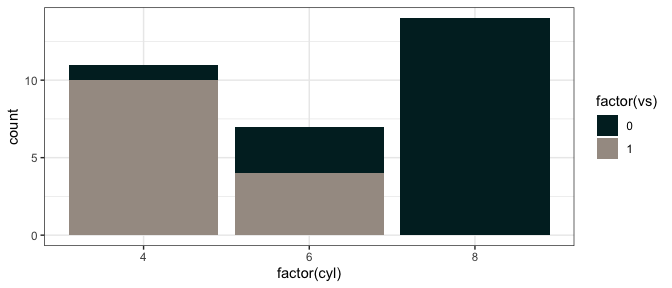
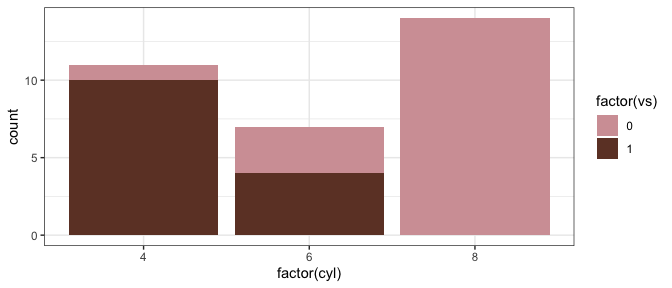
readme

diff --git a/README.md b/README.md
@@ -64,14 +64,6 @@ qg_palette("moscow")
 
 ![](figure/royal-1.png)
 
-``` r
-library("ggplot2")
-ggplot(mtcars, aes(factor(cyl), fill=factor(vs))) +  geom_bar() +
-  scale_fill_manual(values = qg_palette("moscow")[2:3]) + theme_bw()
-```
-
-![](figure/ggplot1-1.png)
-
 ### Endgame
 
 ![endgame](./figure/endgame.jpg)
@@ -83,24 +75,10 @@ qg_palette("endgame")
 ![](figure/lifeaquatic-1.png)
 
 ``` r
-pal <- qg_palette("endgame", 21, type = "continuous")
-image(volcano, col = pal)
+qg_palette("endgame", 21, type = "continuous")
 ```
 
 ![](figure/volcano-1.png)
-
-``` r
-pal <- qg_palette("room", 100, type = "continuous")
-# heatmap is a local dataset
-ggplot(heatmap, aes(x = X2, y = X1, fill = value)) +
-  geom_tile() + 
-  scale_fill_gradientn(colours = pal) + 
-  scale_x_discrete(expand = c(0, 0)) +
-  scale_y_discrete(expand = c(0, 0)) + 
-  coord_equal() 
-```
-
-![](figure/zissou_heatmap-1.png)
 
 ### Practice
 
@@ -141,3 +119,11 @@ qg_palette("USopen")
 ```
 
 ![](figure/moonrise-1.png)
+
+``` r
+library("ggplot2")
+ggplot(mtcars, aes(factor(cyl), fill=factor(vs))) +  geom_bar() +
+  scale_fill_manual(values = qg_palette("USopen")[1:2]) + theme_bw()
+```
+
+![](figure/ggplot1-1.png)
